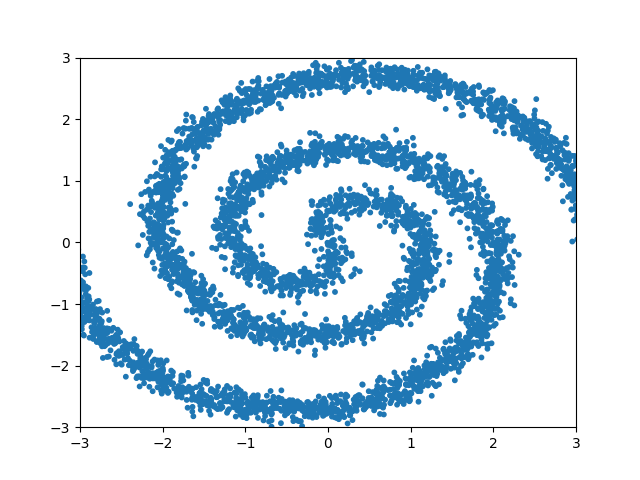
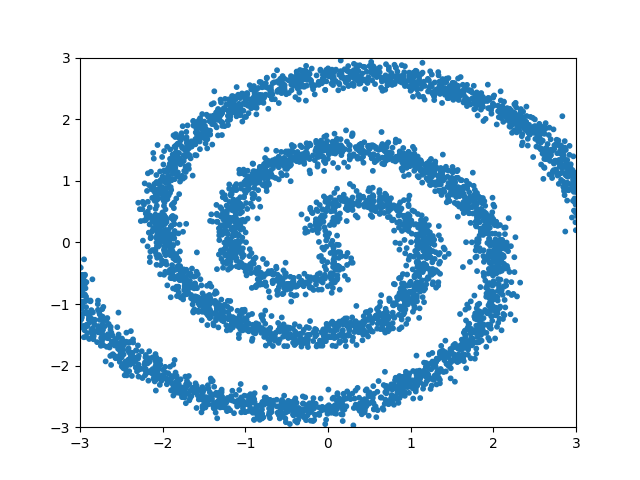
generic commit

Changed region(s): [[0.125, 0.125, 0.9062, 0.9062]]

diff --git a/scripts/transport/fit_kernel.py b/scripts/transport/fit_kernel.py
@@ -39,9 +39,9 @@ def prob_normalization(alpha):
 
 
 def train_kernel(kernel_model, n_iter = 100):
-    #optimizer = torch.optim.SGD(kernel_model.parameters(), lr= 100 * kernel_model.params['learning_rate'],
-                                #nesterov = True, momentum=0.9)
-    optimizer = torch.optim.Adam(kernel_model.parameters(), lr= kernel_model.params['learning_rate']/10)
+    optimizer = torch.optim.SGD(kernel_model.parameters(), lr= 100 * kernel_model.params['learning_rate'],
+                                nesterov = True, momentum=0.9)
+    #optimizer = torch.optim.Adam(kernel_model.parameters(), lr= kernel_model.params['learning_rate']/10)
     Loss_dict = {'n_iter': [], 'fit': [], 'reg': [], 'total': []}
     if kernel_model.test:
         Loss_dict['test'] = []

diff --git a/scripts/transport/c_transport.py b/scripts/transport/c_transport.py
@@ -483,7 +483,7 @@ def run():
     slice_range = [-3,3]
     #process_funcs = [flip_2tensor, flip_2tensor ]
     process_funcs = []
-    conditional_transport_exp(ref_gen, target_gen, exp_name= 'spiral', N = 5000, n_iter = 10000,
+    conditional_transport_exp(ref_gen, target_gen, exp_name= 'spiral', N = 5000, n_iter = 20000,
                               plt_range=range, slice_range= slice_range, process_funcs=process_funcs, slice_vals=[0])
 
 
